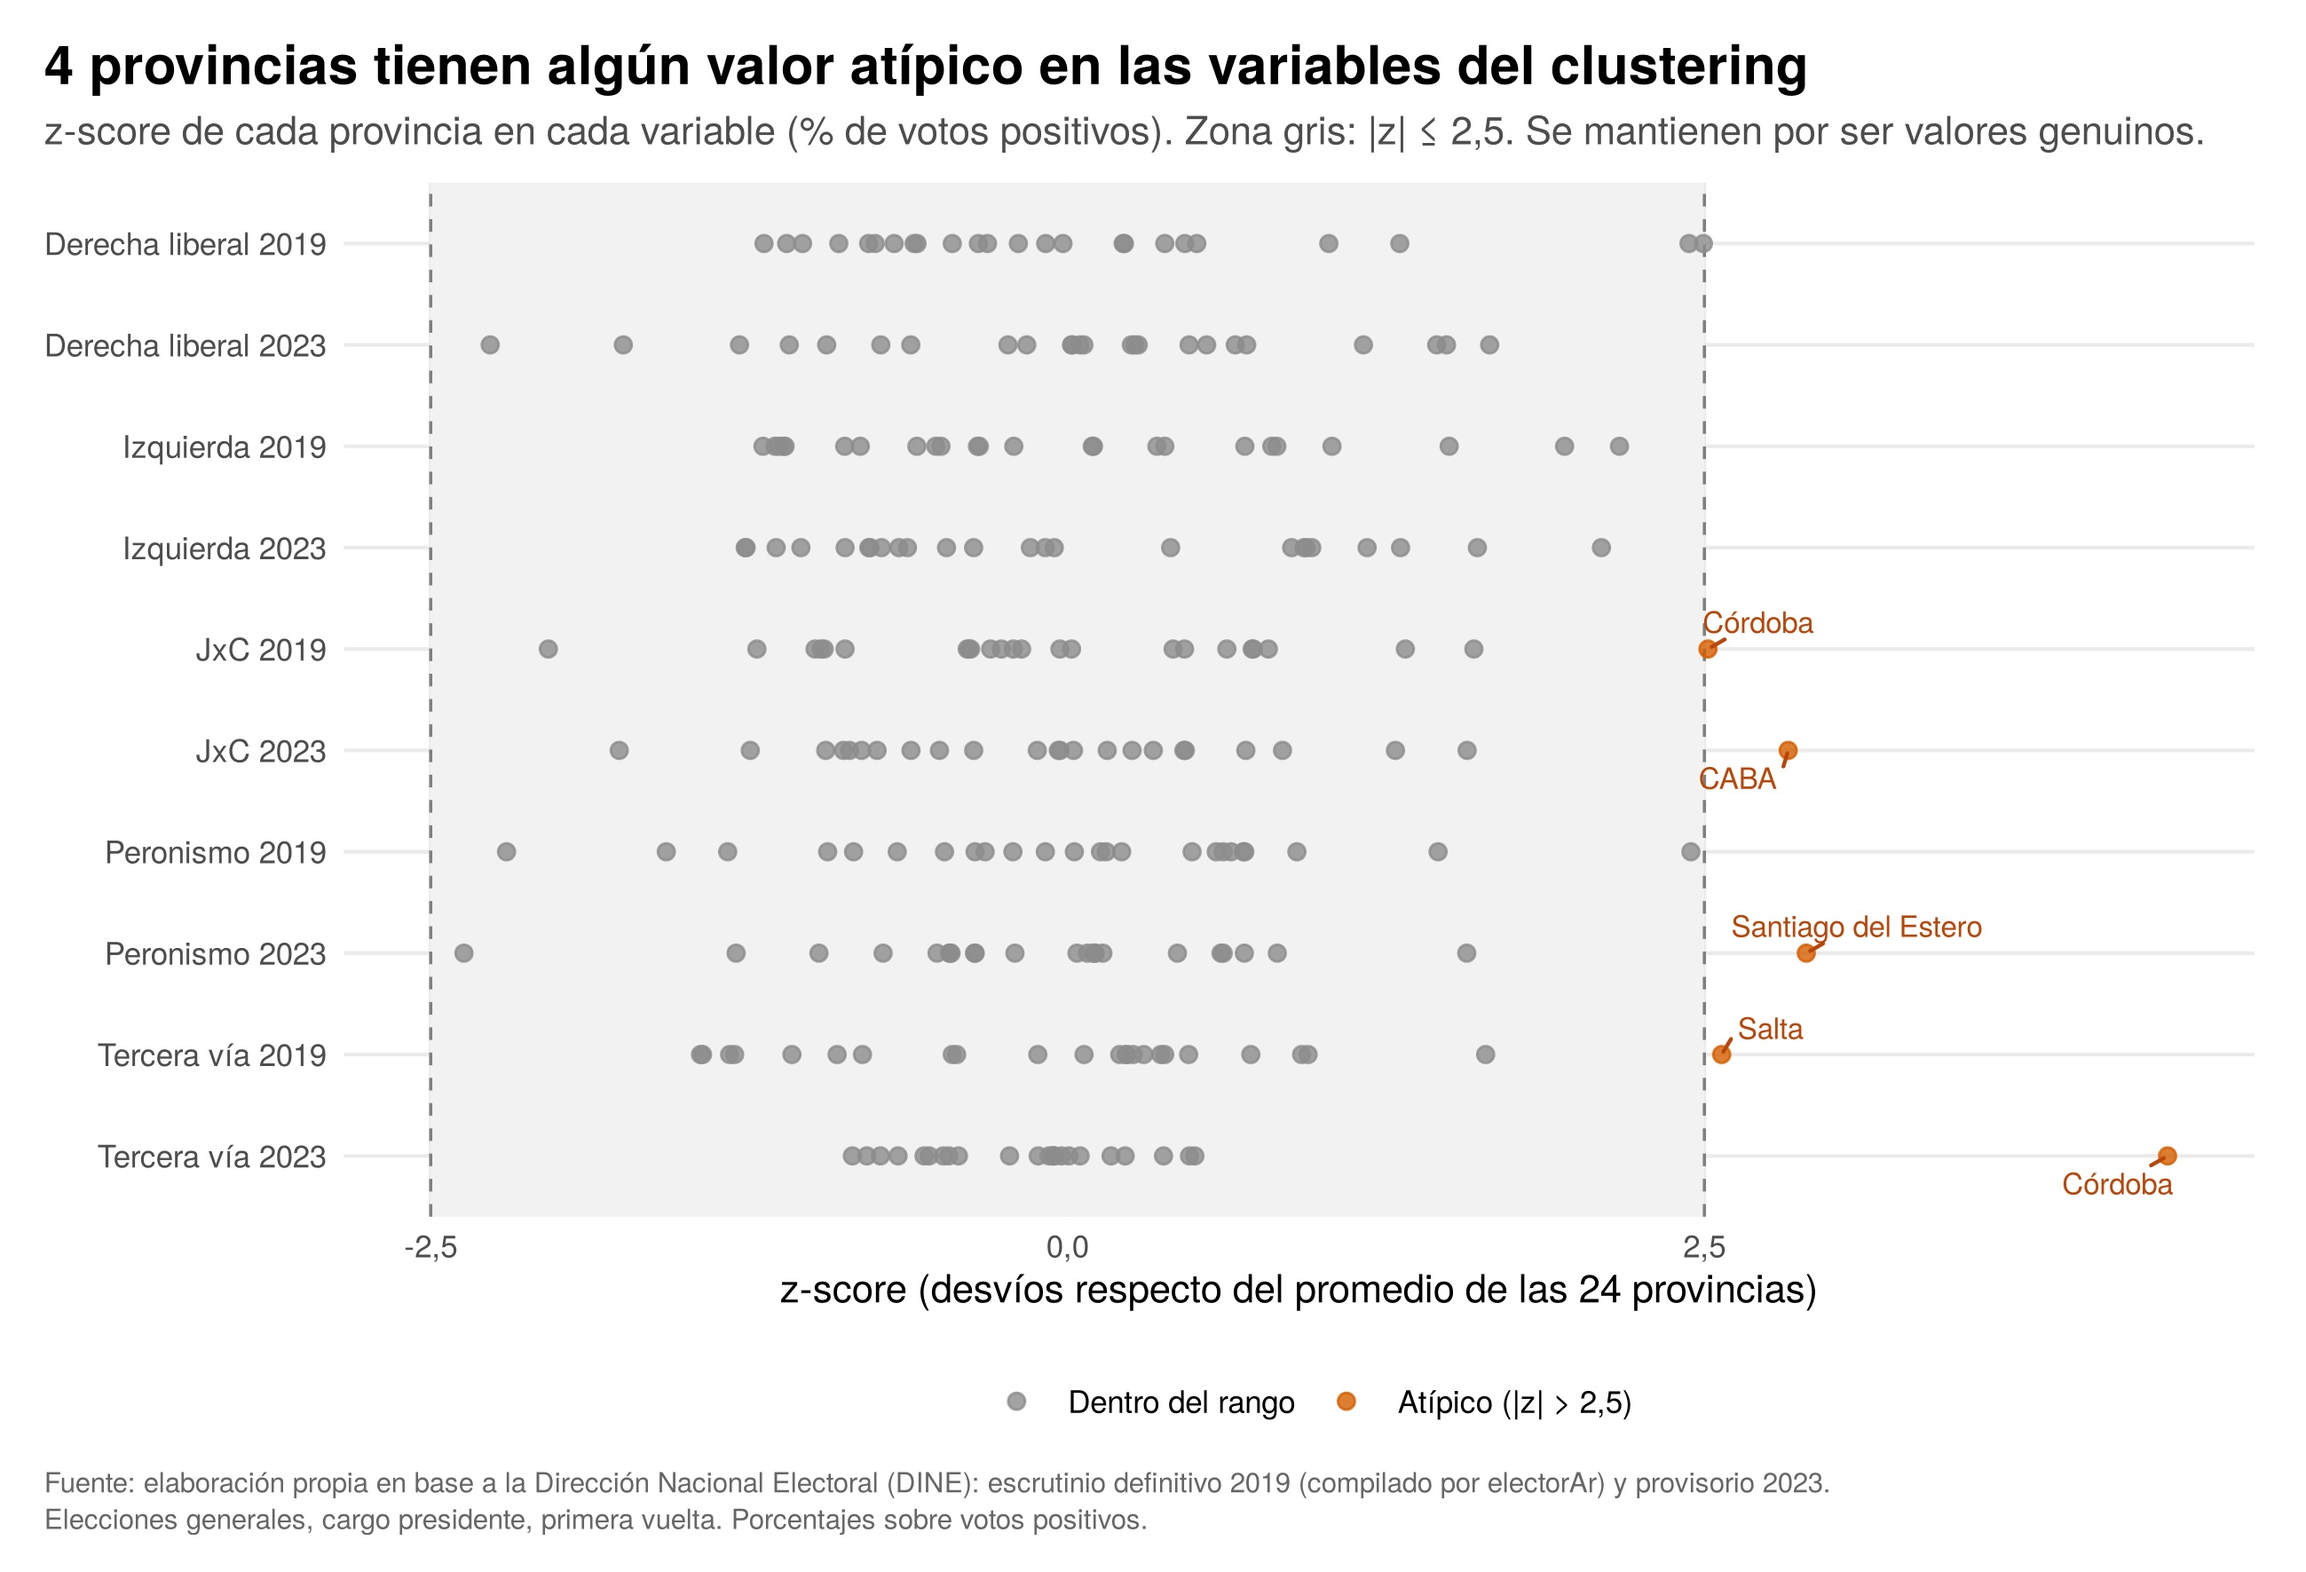
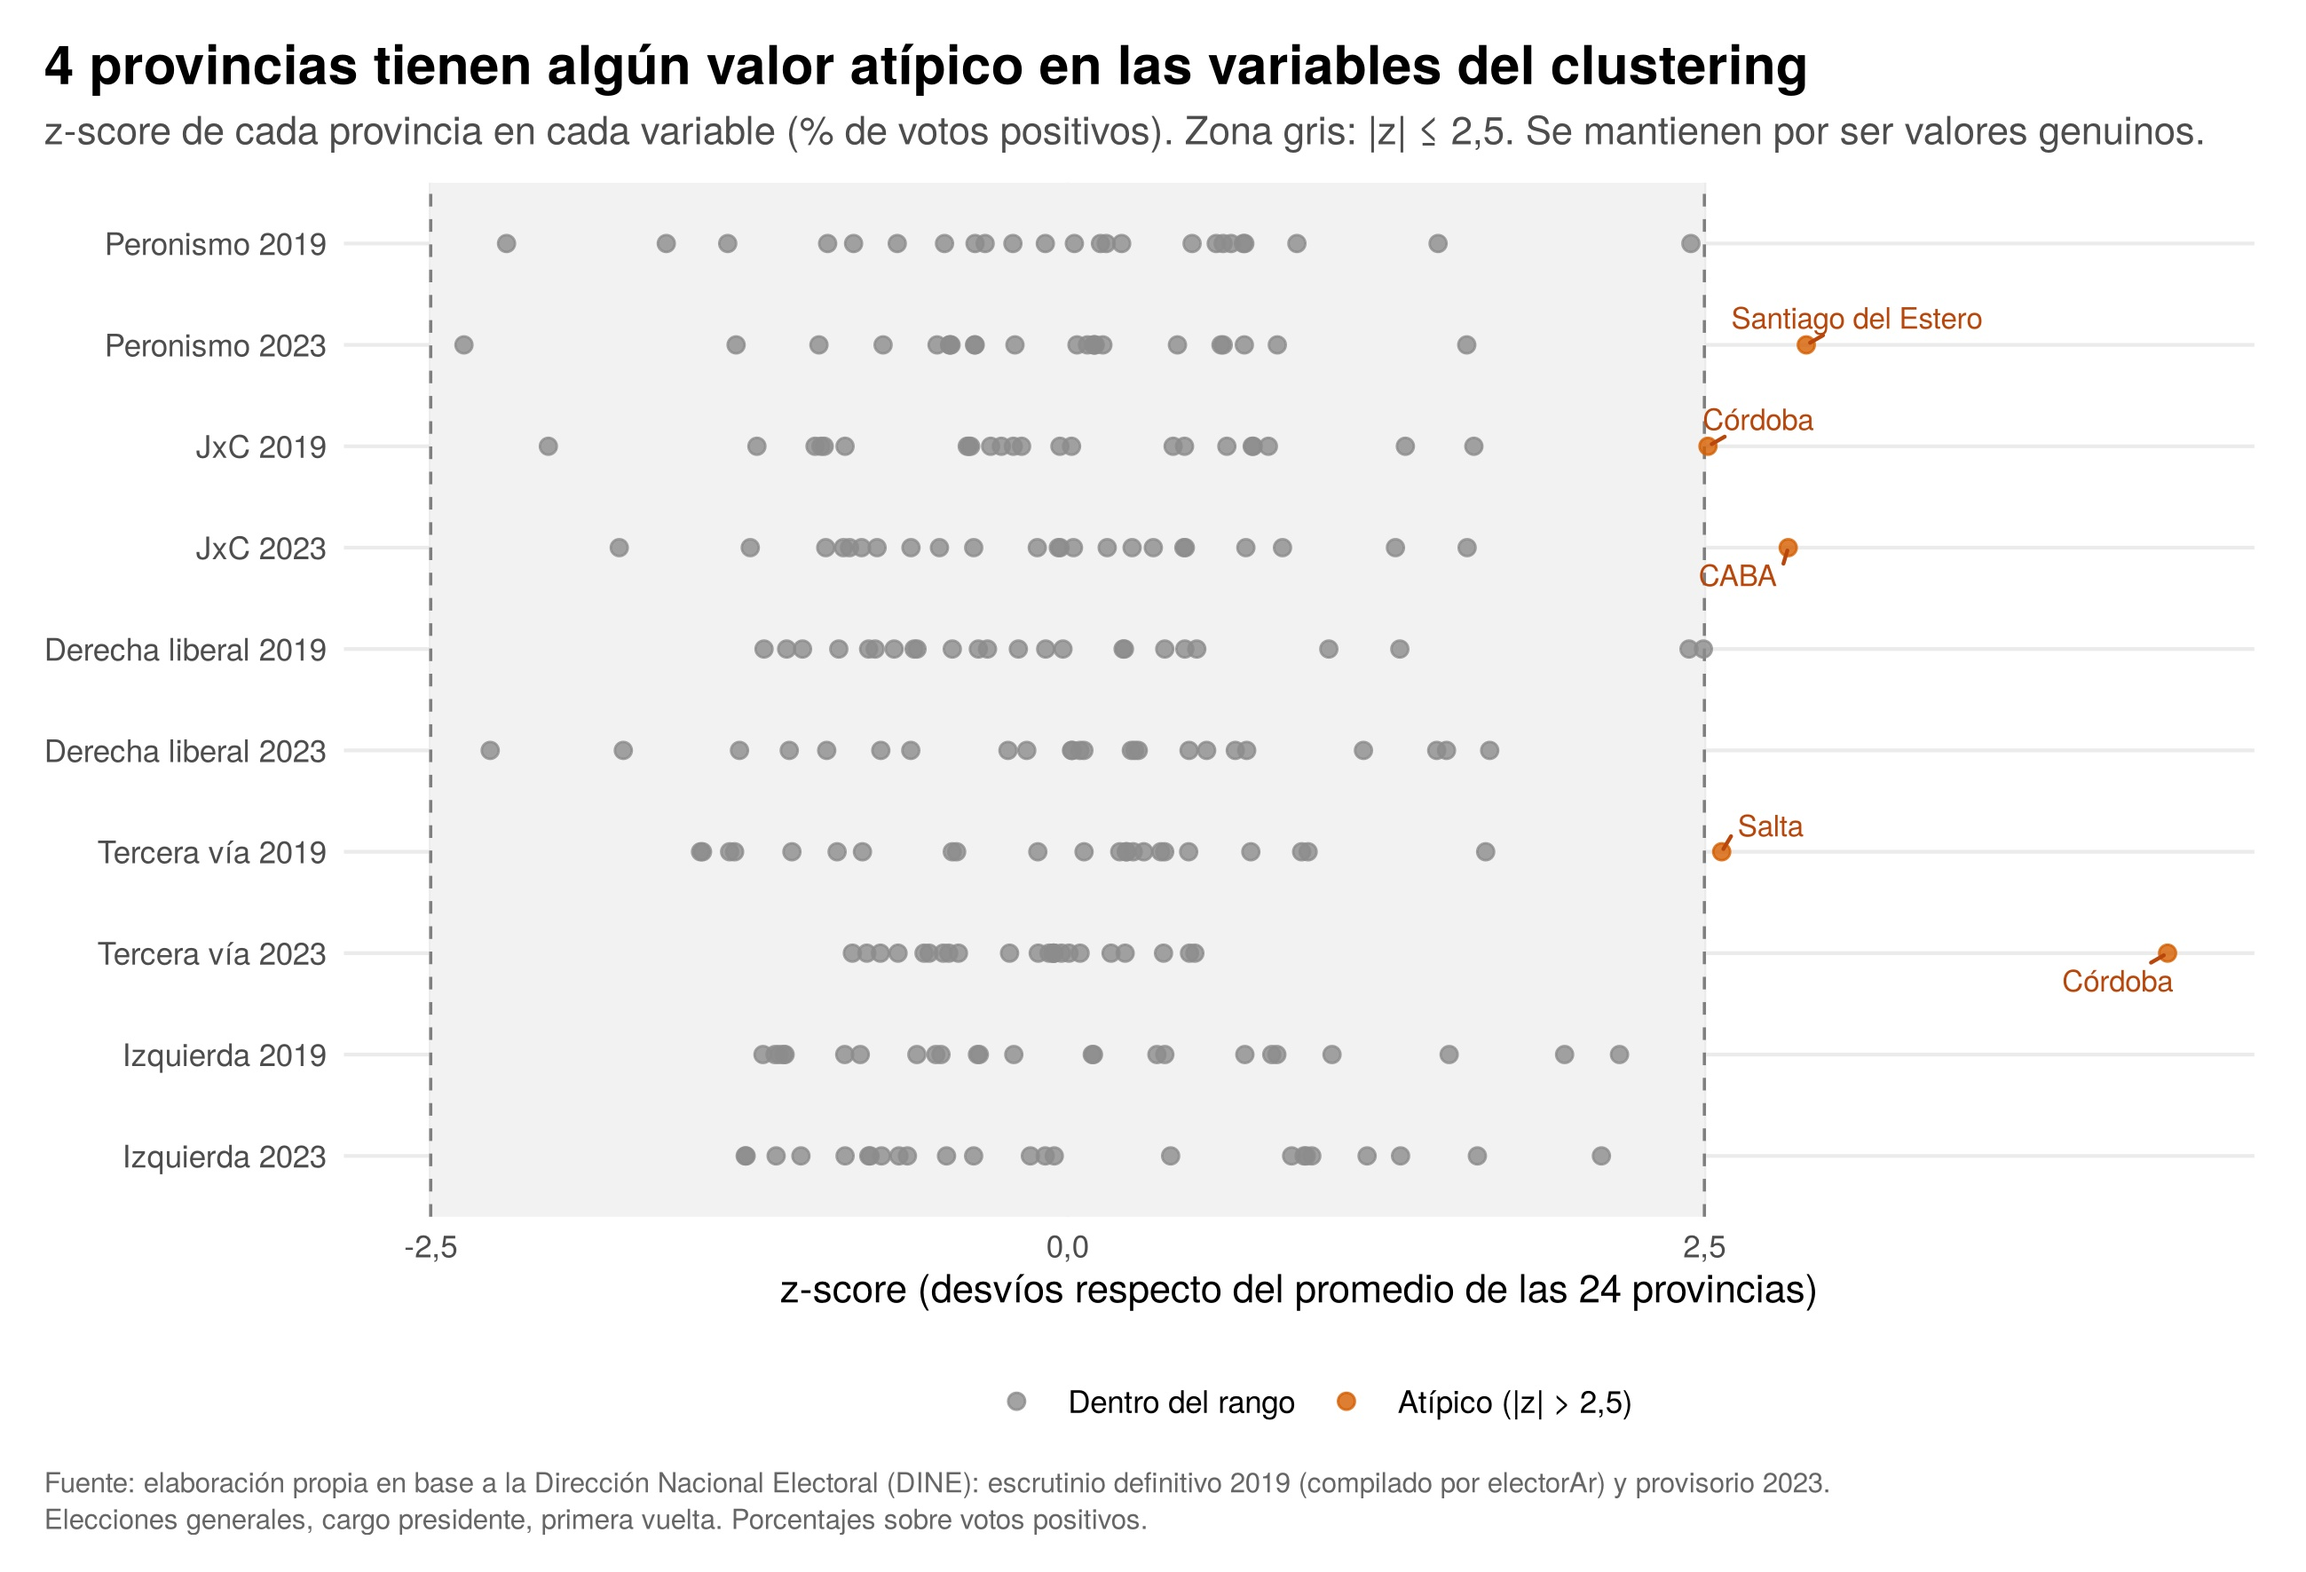
Ajustes para cumplir la consigna de la entrega final
- Variables en minúsculas, sin espacios ni tildes (peronismo_2019, ...)
- Una función por archivo en utils/ (fuente_tp separada; nuevas
  nombre_variable y etiqueta_variable)
- ggrepel cargado al inicio del script 03
- Variables ordenadas por espacio y año en el gráfico de outliers
- El script 05 lee las provincias atípicas desde input/
- Gráficos y títulos en castellano (silueta)
- README: diccionario de variables, funciones y versión de R

diff --git a/README.md b/README.md
@@ -32,6 +32,20 @@ Preguntas de trabajo:
 
 Todos los porcentajes se calculan sobre **votos positivos** (sin blancos ni nulos).
 
+### Variables utilizadas
+
+| Variable | Descripción | Tipo | Faltantes |
+|---|---|---|---|
+| `anio` | Año de la elección (2019 o 2023) | Numérica | 0 |
+| `provincia` | Distrito electoral (24: 23 provincias y CABA) | Categórica | 0 |
+| `espacio` | Espacio político: Peronismo, JxC, Derecha liberal, Tercera vía, Izquierda | Categórica | 0 |
+| `votos` | Votos positivos del espacio en la provincia | Numérica (votos) | 0 |
+| `pct` | Votos del espacio / votos positivos de la provincia × 100 | Numérica (%) | 0 |
+| `electores` | Electores habilitados | Numérica (personas) | 0 |
+| `participacion` | Votos emitidos / electores × 100 | Numérica (%) | 0 |
+| `pct_blancos`, `pct_nulos` | Votos en blanco o nulos / votos emitidos × 100 | Numérica (%) | 0 |
+| `peronismo_2019` … `izquierda_2023` | `pct` de cada espacio en cada año, en formato ancho (10 variables del clustering) | Numérica (%) | 0 |
+
 ## Estructura del repositorio
 
 ```
@@ -51,7 +65,7 @@ tp_elecciones/
 ## Cómo reproducir el análisis
 
 1. Descargar o clonar el repositorio y abrir **`tp_elecciones.Rproj`** con RStudio (así todas las rutas son relativas a la carpeta del proyecto).
-2. Instalar una sola vez los paquetes necesarios:
+2. Instalar una sola vez los paquetes necesarios (probado con R 4.2 o superior y ggrepel 0.9 o superior):
 
    ```r
    install.packages(c("tidyverse", "scales", "ggrepel", "cluster", "patchwork"))
@@ -65,25 +79,28 @@ tp_elecciones/
 | `00b_resumen_mesas_2023.R` | **Opcional.** Resume el archivo de la DINE 2023 por mesa (1 GB, no está en el repo) a nivel provincia | `raw/2023_crudo/` | `raw/presi_2023.csv` |
 | `01_limpieza_base_provincial.R` | Une 2019 y 2023, limpia los nombres de las listas, asigna espacios y calcula el % de cada espacio y los totales por provincia | `raw/`, `auxiliar/` | `input/provincias_espacios.csv`, `input/provincias_totales.csv` |
 | `02_descriptivas.R` | Estadísticas descriptivas por espacio y año, participación, blancos y nulos | `input/` | `output/tablas/02_*.csv`, `output/graficos/02_distribucion_espacios.jpg` |
-| `03_faltantes_outliers.R` | Diagnóstico de faltantes, outliers por z-score (\|z\| > 2,5), decisión y descriptivas con y sin atípicos | `raw/`, `input/` | `output/tablas/03_*.csv`, `output/graficos/03_outliers_zscore.jpg`, `input/provincias_matriz.csv` |
+| `03_faltantes_outliers.R` | Diagnóstico de faltantes, outliers por z-score (\|z\| > 2,5), decisión y descriptivas con y sin atípicos | `raw/`, `input/` | `output/tablas/03_*.csv`, `output/graficos/03_outliers_zscore.jpg`, `input/provincias_matriz.csv`, `input/provincias_atipicas.csv` |
 | `04_chi_cuadrado_departamentos.R` | *(pendiente)* Test Chi cuadrado ganador 2019 × ganador 2023 por departamento | | |
-| `05_clustering_pca.R` | Elección de k (codo y silhouette), k-means con k = 3, robustez (Ward y sin atípicos) y PCA | `input/provincias_matriz.csv`, `output/tablas/03_outliers.csv` | `output/tablas/05_*.csv`, `output/graficos/05_*.jpg`, `input/provincias_grupos.csv` |
+| `05_clustering_pca.R` | Elección de k (codo y silueta), k-means con k = 3, robustez (Ward y sin atípicos) y PCA. Genera el gráfico exploratorio de la instancia 3 | `input/provincias_matriz.csv`, `input/provincias_atipicas.csv` | `output/tablas/05_*.csv`, `output/graficos/05_*.jpg`, `input/provincias_grupos.csv` |
 
 Los scripts `00a` y `00b` no hace falta correrlos: sus resultados ya están en `raw/`.
 
 ### Funciones propias (`utils/`)
 
-| Función | Para qué | Se usa en |
-|---|---|---|
-| `limpiar_nombre_lista()` | Unifica cómo está escrito el nombre de cada lista | 01 |
-| `tema_tp()` y `fuente_tp` | Tema de ggplot y nota de fuente comunes a todos los gráficos | 02, 03, 05 |
-| `guardar_grafico()` | Exporta con `ggsave()` a JPG, 300 dpi, 22 cm de ancho | 02, 03, 05 |
+| Archivo | Función | Para qué | Se usa en |
+|---|---|---|---|
+| `limpiar_nombre_lista.R` | `limpiar_nombre_lista()` | Unifica cómo está escrito el nombre de cada lista | 01 |
+| `nombre_variable.R` | `nombre_variable()` | Arma el nombre interno de una variable (`tercera_via_2019`) | 03 |
+| `etiqueta_variable.R` | `etiqueta_variable()` | Traduce el nombre interno al texto de los gráficos (`Tercera vía 2019`) | 03, 05 |
+| `tema_tp.R` | `tema_tp()` | Tema de ggplot común a todos los gráficos | 02, 03, 05 |
+| `fuente_tp.R` | `fuente_tp()` | Nota de fuente al pie de todos los gráficos | 02, 03, 05 |
+| `guardar_grafico.R` | `guardar_grafico()` | Exporta con `ggsave()` a JPG, 300 dpi, 22 cm de ancho | 02, 03, 05 |
 
 ## Análisis realizado
 
 1. **Limpieza y descriptivas.** 24 provincias × 2 elecciones × 5 espacios. No hay valores faltantes en las variables usadas.
 2. **Outliers.** Se detectaron valores atípicos (\|z\| > 2,5) en 4 provincias: Córdoba (Tercera vía 2023 y JxC 2019), Santiago del Estero, CABA y Salta. Son resultados genuinos, no errores de carga, por lo que se mantienen; se muestra cómo cambian las descriptivas sin ellos.
-3. **Clustering.** k-means con k = 3 (50 inicios, variables estandarizadas). Los grupos explican el 44,3 % de la varianza; silhouette media 0,25 (estructura débil). Ward coincide en 23 de 24 provincias.
+3. **Clustering.** k-means con k = 3 (50 inicios, variables estandarizadas). Los grupos explican el 44,3 % de la varianza; silueta media 0,25 (estructura débil). Ward coincide en 23 de 24 provincias.
 
 ## Conclusiones principales
 
